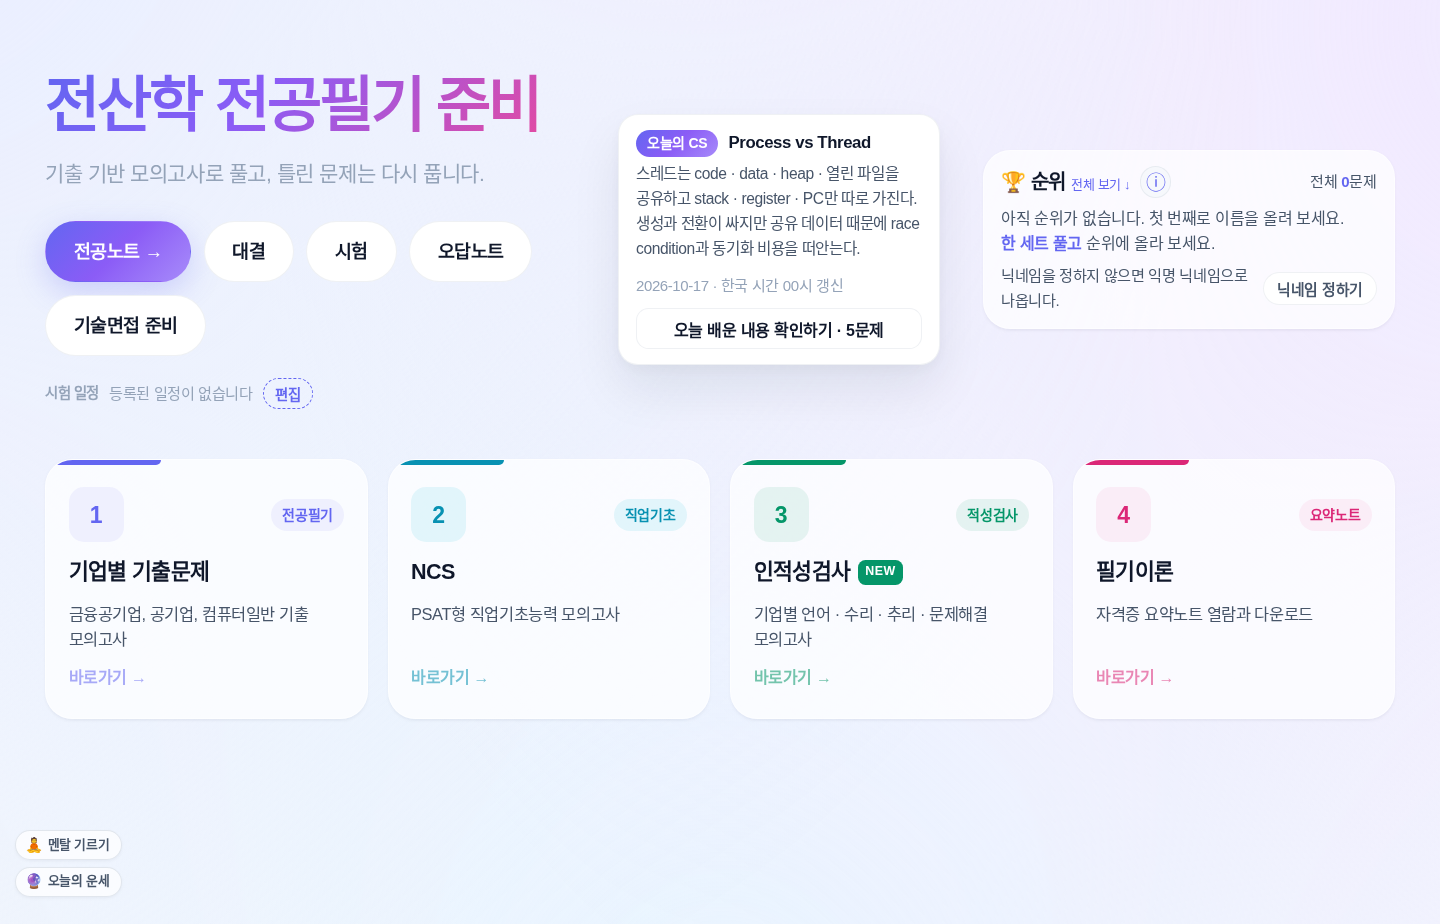
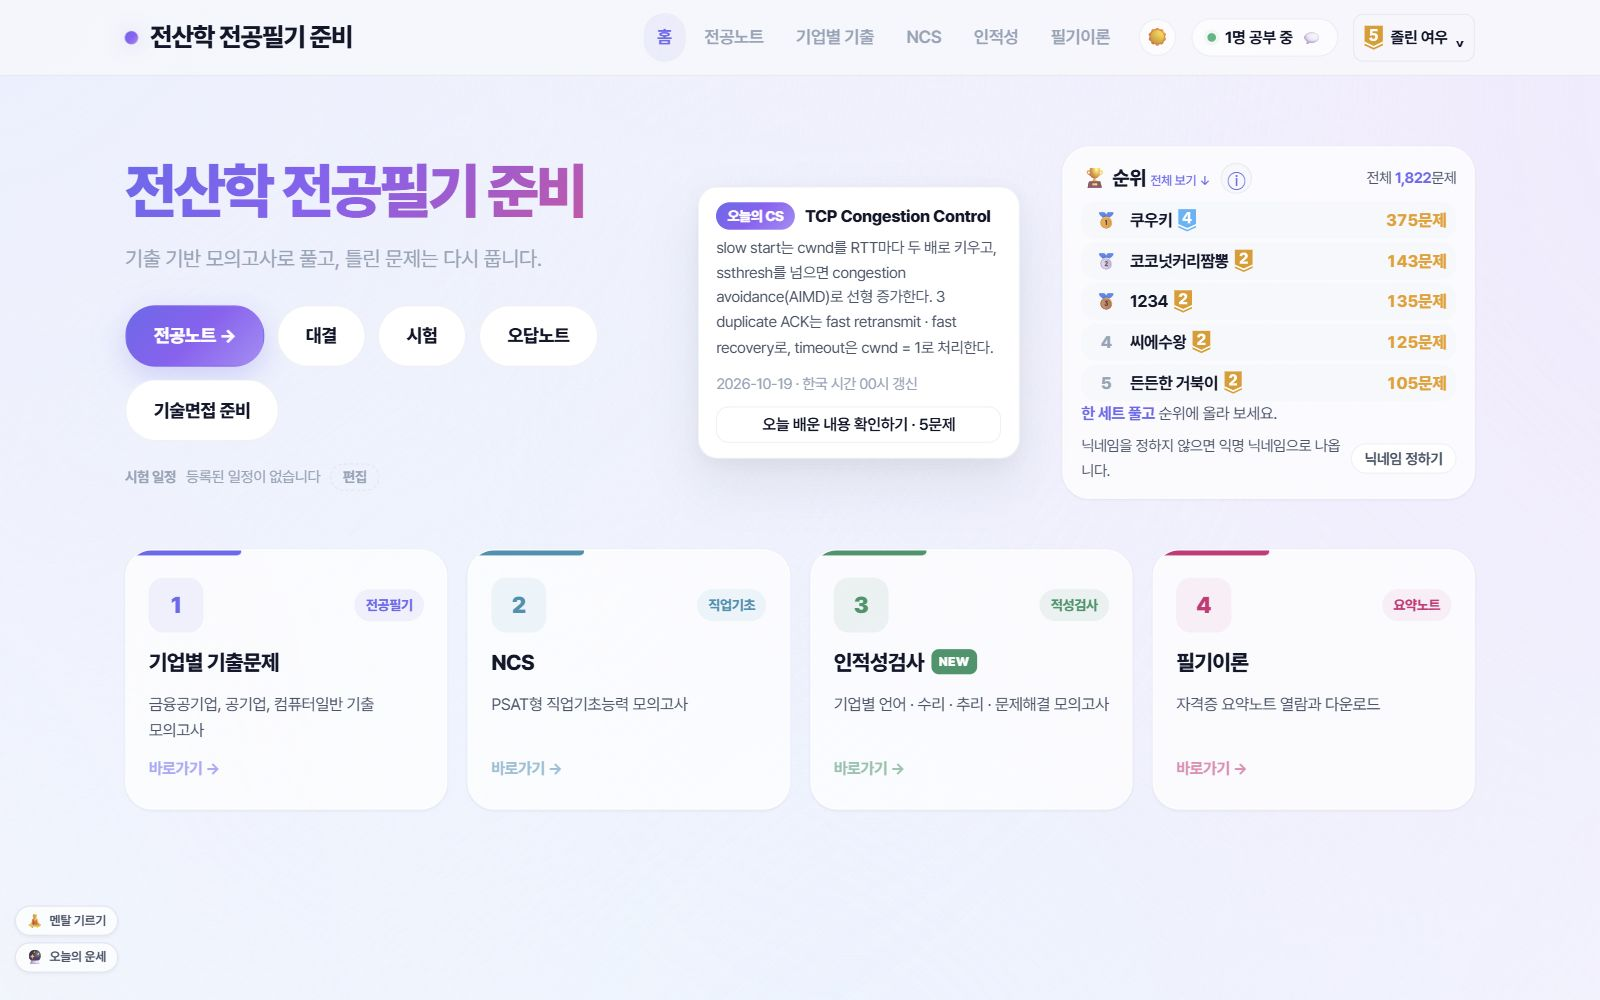
Simplify CS study metrics and refresh live ranking screenshot

diff --git a/index.html b/index.html
@@ -252,10 +252,6 @@
                 <span class="task-t">실사용 기반 학습 서비스 운영</span>
                 <span class="task-s">최근 30일 조회 <b>2,613회</b> · 방문자 <b>154명</b></span>
               </summary>
-              <ul class="bul">
-                <li>기업별 문제 풀이·오답 복습·전공노트를 제공하며 누적 조회 <b>2,616회</b>, 풀이 완료 <b>79건</b> 기록</li>
-                <li>최근 30일 최대 일간 방문자 <b>41명</b> · 가입 계정 <b>7개</b></li>
-              </ul>
             </details>
             <details class="task" open>
               <summary data-tag="feature">
@@ -269,8 +265,8 @@
             </details>
           </div>
           <div class="thumbs">
-            <button type="button" class="shot" data-full="assets/img/project/cs-study-home.png" data-caption="CS Study Platform 메인 화면 · 실제 프론트엔드를 예시 API 응답으로 실행한 화면">
-              <img src="assets/img/project/cs-study-home.png" alt="전공필기·NCS·인적성·필기이론과 오늘의 CS를 제공하는 메인 화면" loading="lazy" decoding="async">
+            <button type="button" class="shot" data-full="assets/img/project/cs-study-home.png?v=20261019-rank" data-caption="CS Study Platform 실제 운영 화면 · 학습 순위와 오늘의 CS">
+              <img src="assets/img/project/cs-study-home.png?v=20261019-rank" alt="학습 순위와 전공필기·NCS·인적성·필기이론을 제공하는 실제 메인 화면" loading="lazy" decoding="async">
               <span class="shot-cap">학습 서비스 메인</span>
             </button>
             <button type="button" class="shot" data-full="assets/img/project/cs-study-interview.png" data-caption="기술면접 학습 화면 · 저장소에 수록된 시연 화면">
